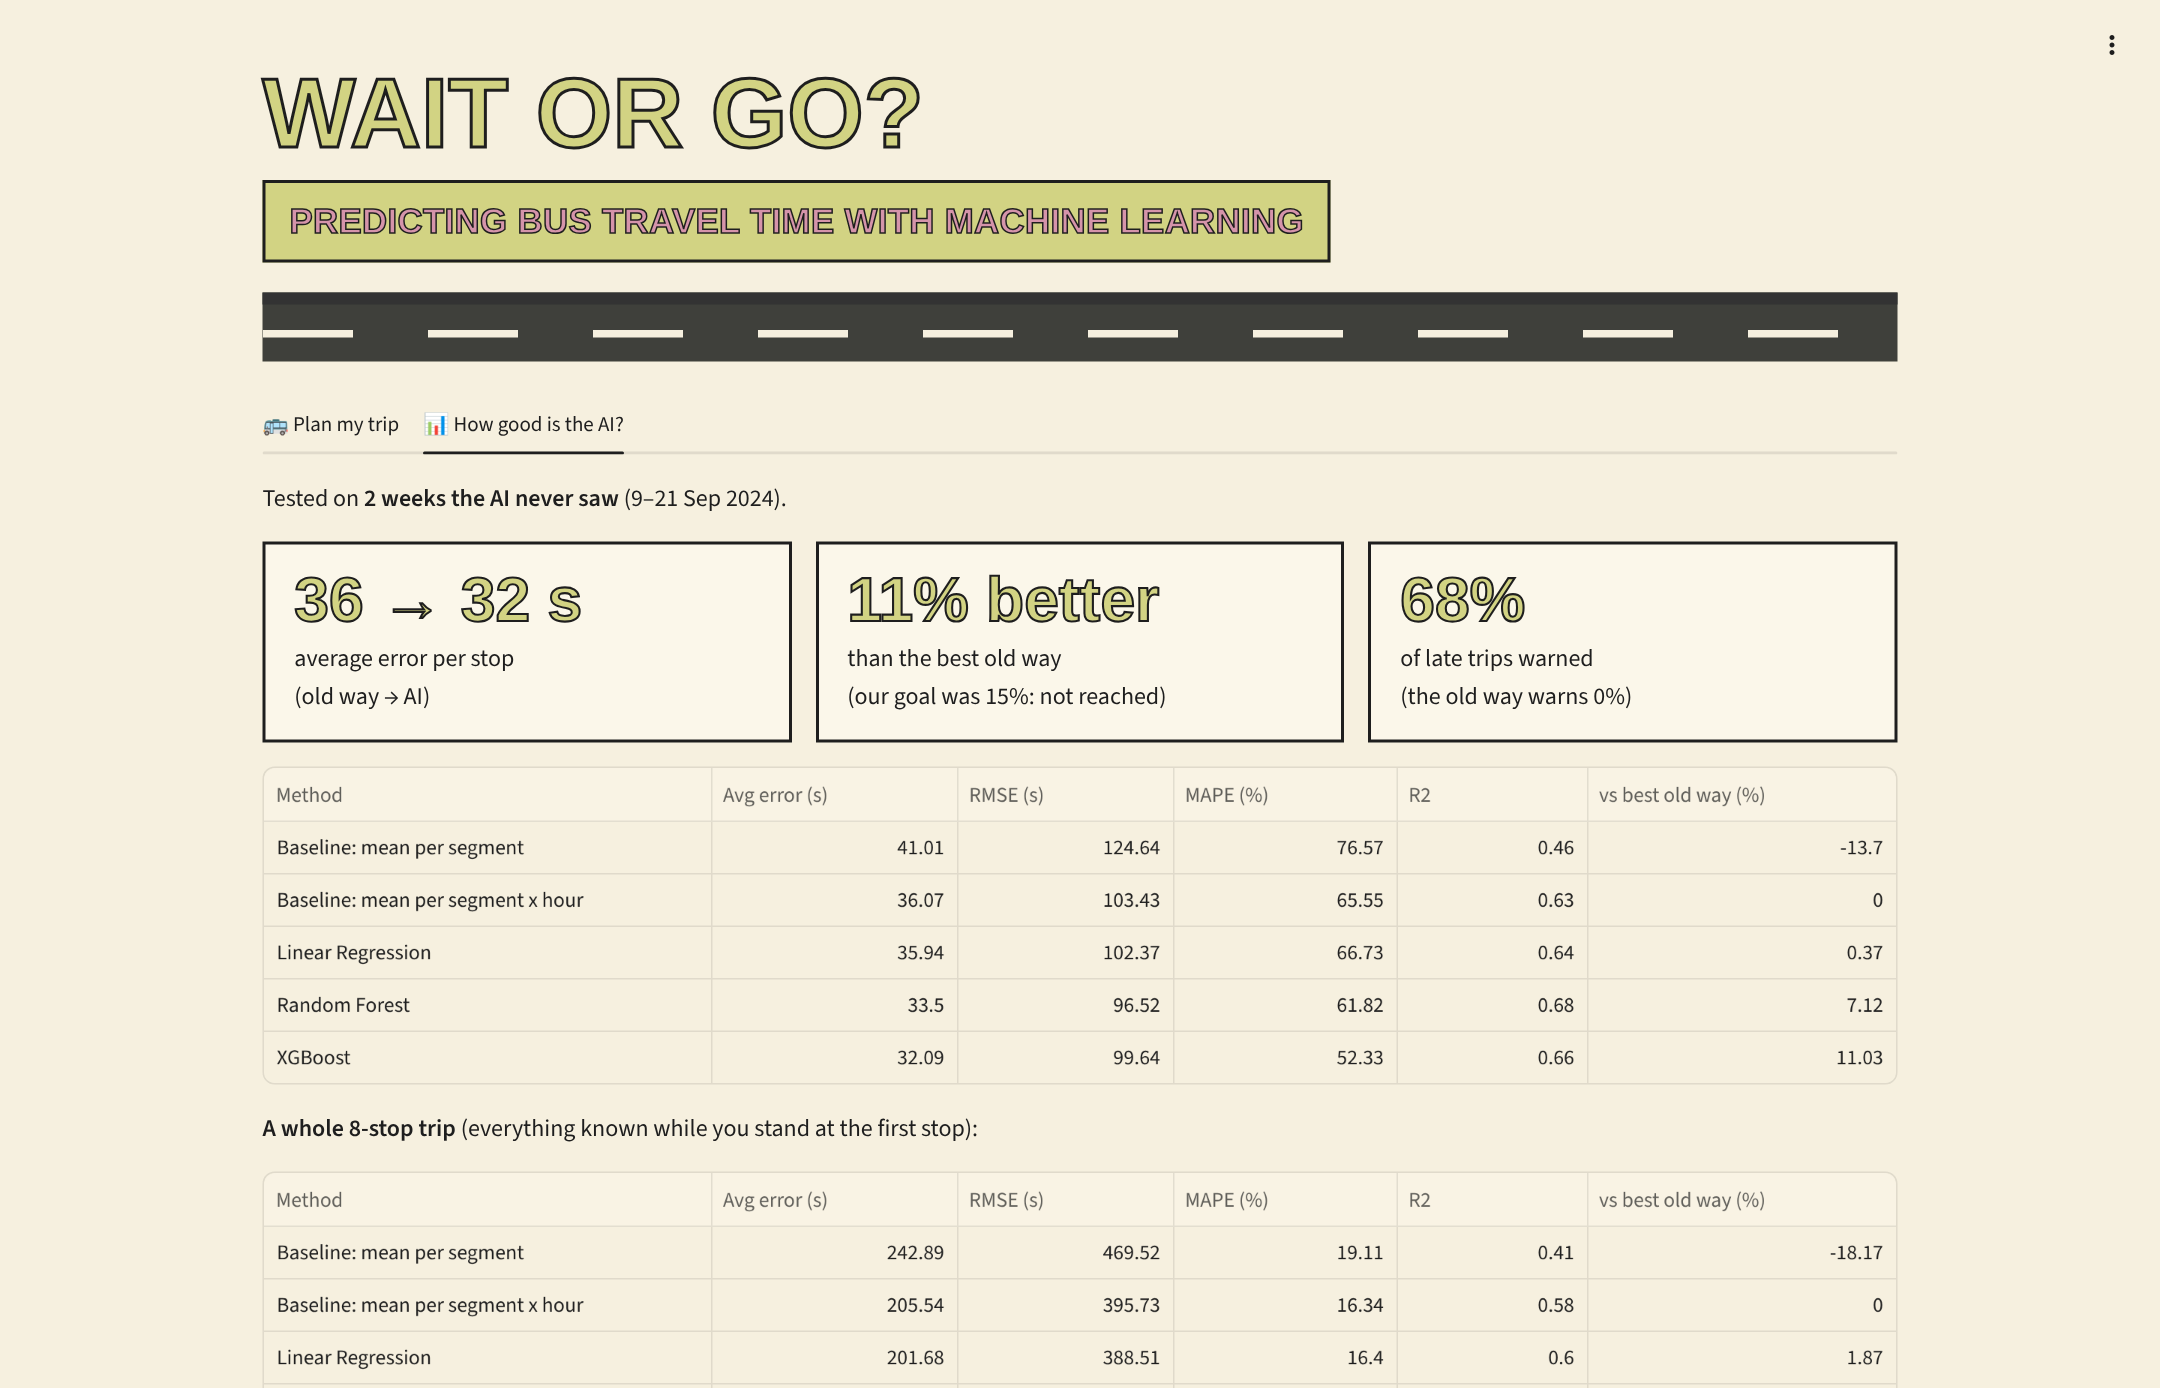
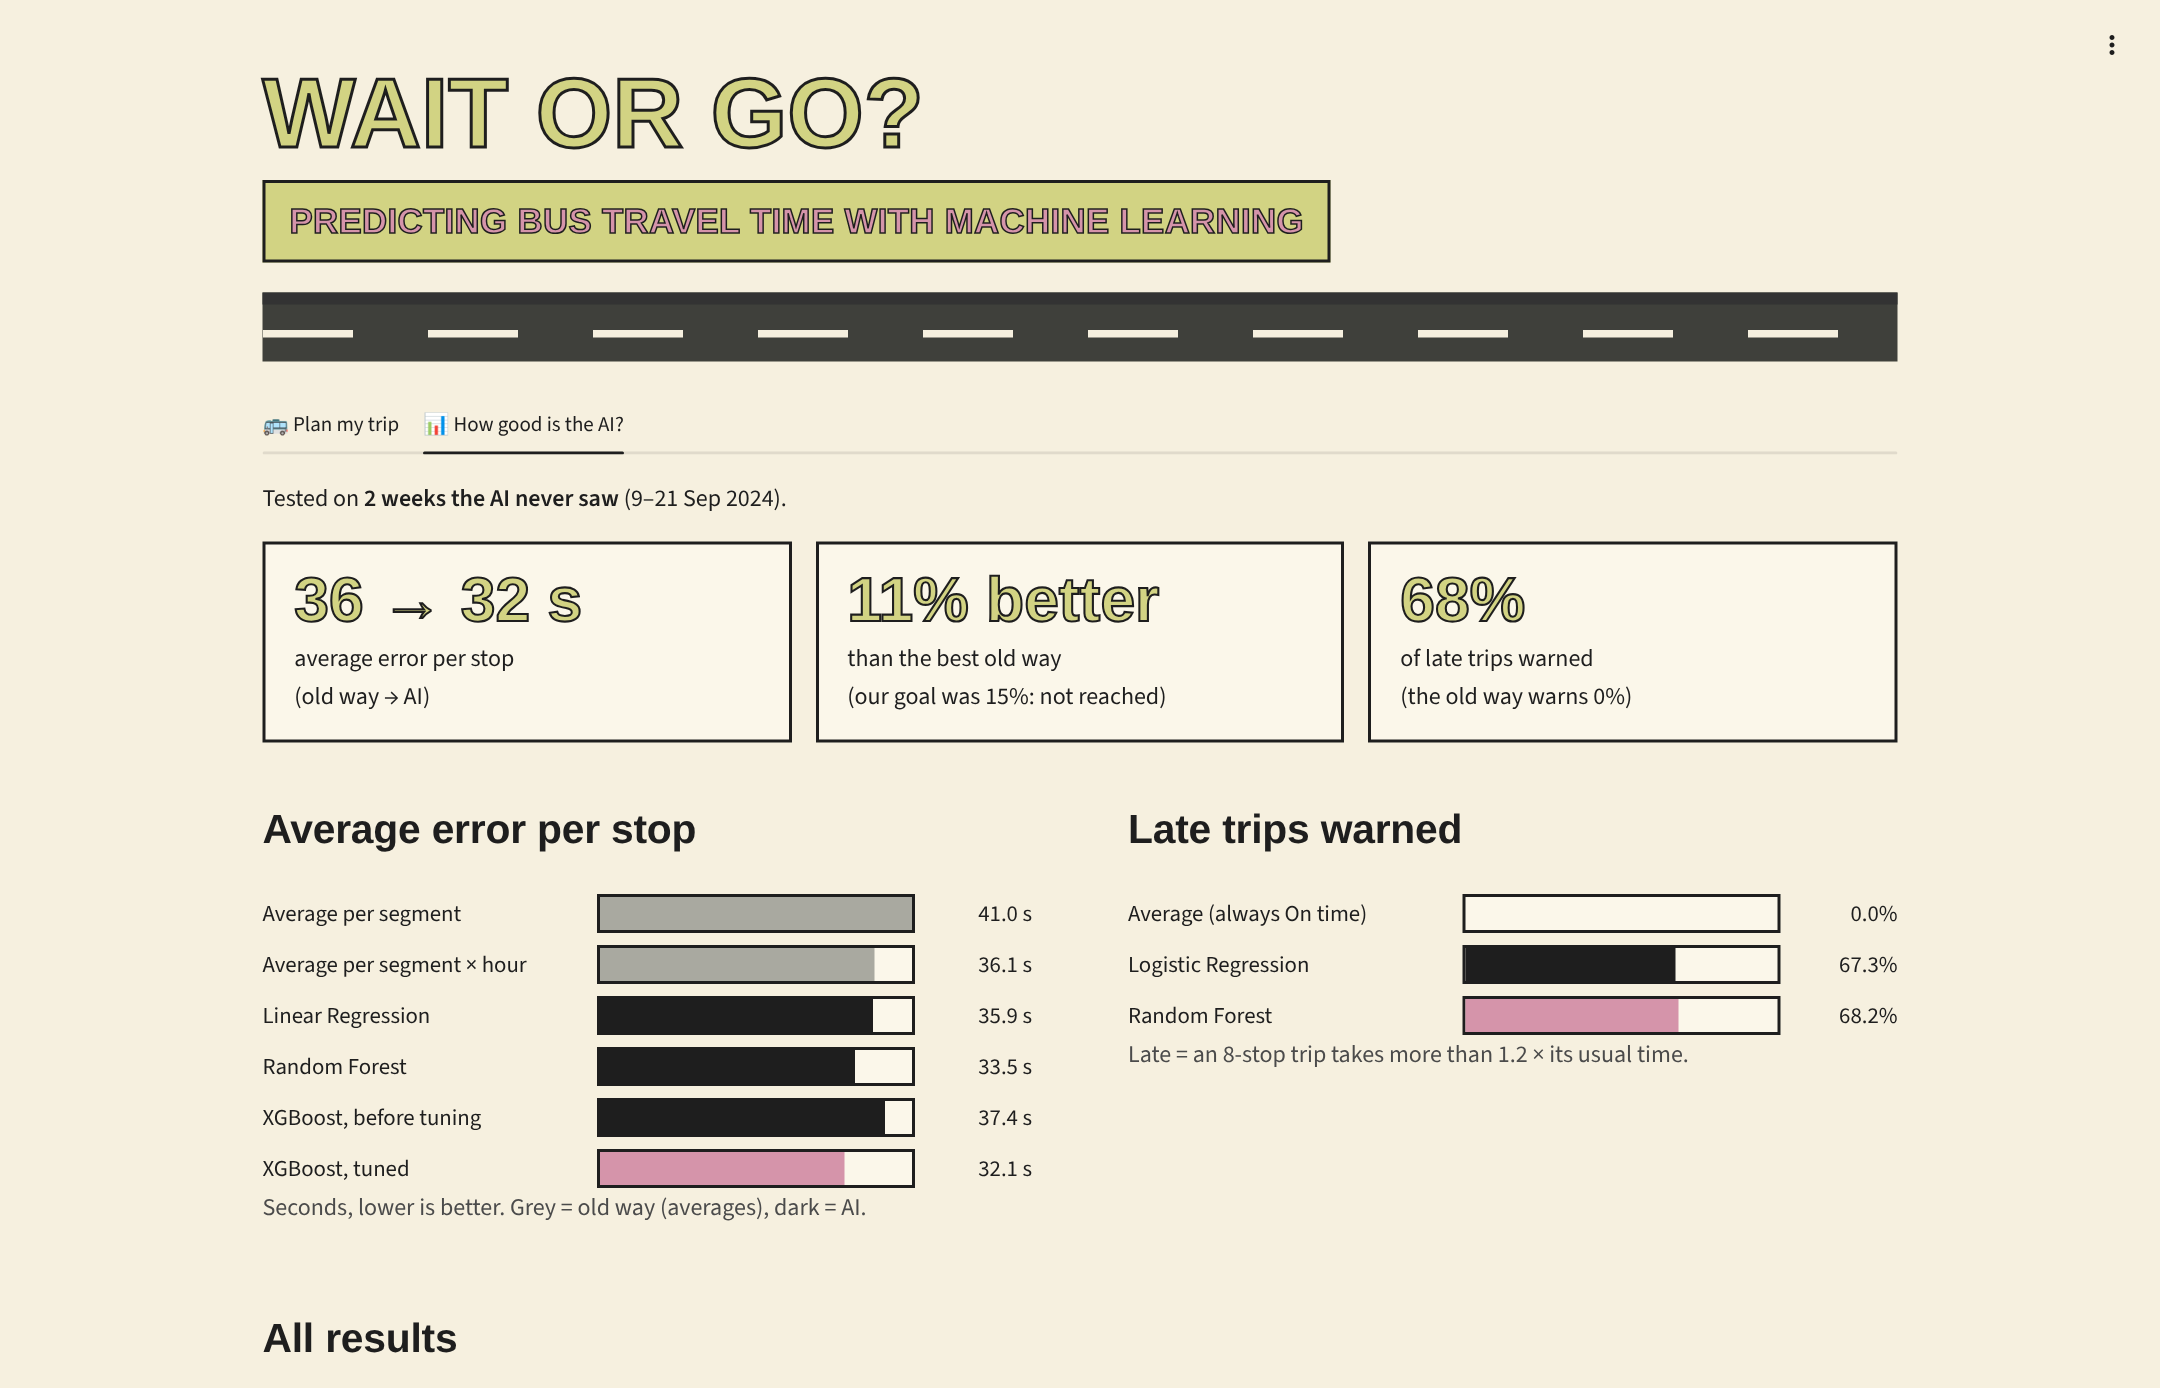
Match the web design

diff --git a/app/app.py b/app/app.py
@@ -32,12 +32,12 @@ st.markdown("""
         --ink:#1E1E1E; --road:#3F403B; --green:#4A6B4B; --sky:#BFD0D6; }
 html, body, .stApp, [class*="css"] { font-family:'Jost','Futura','Avenir Next','Helvetica Neue',Arial,sans-serif; color:var(--ink); }
 .stApp { background:var(--cream); }
-.block-container { padding-top:1.6rem; max-width:1250px; }
+.block-container { padding:1.75rem max(4vw,16px) 3rem !important; max-width:1240px !important; }
 header[data-testid="stHeader"] { background:transparent; }
 h1,h2,h3 { font-family:'League Spartan','Futura','Avenir Next','Arial Black',sans-serif,'Futura','Avenir Next','Arial Black',sans-serif !important; color:var(--ink); }
 
 .kick { font-family:'Jost','Futura','Avenir Next',sans-serif; font-size:.95rem; letter-spacing:.12em; text-transform:uppercase; margin:0; }
-.hero { font-family:'League Spartan','Futura','Avenir Next','Arial Black',sans-serif; font-weight:900; font-size:4.1rem; line-height:.95;
+.hero { font-family:'League Spartan','Futura','Avenir Next','Arial Black',sans-serif; font-weight:900; font-size:clamp(48px,8vw,92px); line-height:.95;
         color:var(--olive); -webkit-text-stroke:2px var(--ink); text-transform:uppercase; margin:.2rem 0 .8rem; }
 .band { background:var(--olive); border:2px solid var(--ink); padding:.45rem 1rem; display:inline-block; }
 .band span { font-family:'League Spartan','Futura','Avenir Next','Arial Black',sans-serif; font-weight:900; font-size:1.45rem; color:var(--pink);
@@ -47,7 +47,9 @@ h1,h2,h3 { font-family:'League Spartan','Futura','Avenir Next','Arial Black',san
                background:repeating-linear-gradient(90deg, var(--cream) 0 60px, transparent 60px 110px); }
 
 .card { background:var(--mustard); border:2px solid var(--ink); padding:1.1rem 1.3rem 1.2rem; }
-.card h3 { font-family:'League Spartan','Futura','Avenir Next','Arial Black',sans-serif; font-weight:800; font-size:1.35rem; margin:0 0 .2rem; }
+.card h3 { font-family:'League Spartan','Futura','Avenir Next','Arial Black',sans-serif; font-weight:800; font-size:1.35rem; margin:0 0 .25rem !important; padding:0 !important; line-height:1.1; }
+.card p { margin:0 !important; }
+.card { padding:1rem 1.25rem !important; }
 .step { font-family:'League Spartan','Futura','Avenir Next','Arial Black',sans-serif; font-weight:800; font-size:1.05rem; text-transform:uppercase;
         letter-spacing:.04em; margin:.9rem 0 .1rem; }
 .hint { font-size:.92rem; color:#4b4b4b; margin:0 0 .2rem; }
@@ -82,6 +84,35 @@ button[kind="segmented_control"], button[kind="segmented_controlActive"], [data-
 [data-testid="stBaseButton-segmented_controlActive"] { background:var(--ink) !important; color:var(--paper) !important; }
 .stTabs [data-baseweb="tab"] { font-family:'League Spartan','Futura','Avenir Next','Arial Black',sans-serif; font-weight:800; font-size:1.1rem; text-transform:uppercase; }
 details { border:2px solid var(--ink) !important; border-radius:0 !important; background:var(--paper); }
+h2.sec { font-family:'League Spartan','Futura','Avenir Next','Arial Black',sans-serif; font-weight:800; font-size:1.7rem; margin:1.6rem 0 .7rem; }
+.bars { display:grid; gap:8px; }
+.bar { display:grid; grid-template-columns:minmax(0,14em) minmax(0,1fr) 4.5em; gap:10px; align-items:center; font-size:.95rem; }
+.bar .tr { height:26px; background:var(--paper); border:2px solid var(--ink); }
+.bar .fill { height:100%; background:var(--ink); }
+.bar .fill.base { background:#A9A9A0; } .bar .fill.hot { background:var(--pink); }
+.bar .v { text-align:right; font-variant-numeric:tabular-nums; white-space:nowrap; }
+.scroll { overflow-x:auto; }
+table.res { border-collapse:collapse; width:100%; font-size:.95rem; background:var(--paper); }
+table.res th, table.res td { border:2px solid var(--ink); padding:7px 10px; text-align:left; }
+table.res th { background:var(--olive); font-weight:600; }
+table.res .n { text-align:right; font-variant-numeric:tabular-nums; white-space:nowrap; }
+table.res tr.hl td { background:#F3DDB0; font-weight:600; }
+/* match the web version: Jost for all text, icons keep their own font */
+.stApp, .stApp p, .stApp li, .stApp label, .stApp span, .stApp div, .stApp td, .stApp th,
+.stApp input, .stApp button, .stApp summary { font-family:'Jost','Futura','Avenir Next','Helvetica Neue',Arial,sans-serif; }
+.stApp [data-testid="stIconMaterial"], .stApp .material-symbols-rounded, .stApp [class*="material-symbols"] {
+  font-family:'Material Symbols Rounded' !important; }
+.stApp .hero, .stApp .band span, .stApp .big, .stApp .do, .stApp .step, .stApp .card h3, .stApp .tl .t,
+.stApp .stat .n, .stApp h2.sec { font-family:'League Spartan','Futura','Avenir Next','Arial Black',sans-serif; }
+.stTabs [data-baseweb="tab-list"] { gap:0; border-bottom:2px solid var(--ink); align-items:flex-end; margin-bottom:8px; }
+.stTabs [data-baseweb="tab-highlight"], .stTabs [data-baseweb="tab-border"] { display:none; }
+.stTabs [data-baseweb="tab"] { padding:14px 18px 12px; height:auto; min-height:44px; background:transparent; border:0;
+  margin:0; line-height:1; }
+.stTabs [data-baseweb="tab"] p { font-family:'League Spartan','Futura','Avenir Next',sans-serif !important; font-weight:800;
+  font-size:17px; line-height:1; margin:0; text-transform:uppercase; color:#4f4f4f; }
+.stTabs [data-baseweb="tab"][aria-selected="true"] { background:var(--olive); border:2px solid var(--ink); border-bottom:0;
+  margin-bottom:-2px; }
+.stTabs [data-baseweb="tab"][aria-selected="true"] p { color:var(--ink); }
 </style>
 """, unsafe_allow_html=True)
 
@@ -140,7 +171,7 @@ st.markdown("""
 <div class="road"></div>
 """, unsafe_allow_html=True)
 
-tab1, tab2 = st.tabs(["🚌  Plan my trip", "📊  How good is the AI?"])
+tab1, tab2 = st.tabs(["Plan my trip", "How good is the AI?"])
 
 with tab1:
     left, right = st.columns([1, 1.25], gap="large")
@@ -152,12 +183,10 @@ with tab1:
 
         st.markdown('<p class="step">1 · Which bus?</p>', unsafe_allow_html=True)
         c1, c2 = st.columns(2)
-        route = c1.selectbox("Bus line", ["A", "B", "C"], format_func=lambda r: f"Line {r}",
-                             help="One of the 3 real bus lines in the data. See 'What are lines A, B, C?' below.")
+        route = c1.selectbox("Bus line", ["A", "B", "C"], format_func=lambda r: f"Line {r}")
         nst = lambda r, dd: len(lk["sequences"][(r, dd)]) + 1
         direction = c2.selectbox("Which way?", [1, 2],
-                                 format_func=lambda dd: f"{'Way 1  →' if dd == 1 else 'Way 2  ←'}  ({nst(route, dd)} stops)",
-                                 help="Each line runs both ways. Way 1 and Way 2 are the two directions in the data.")
+                                 format_func=lambda dd: f"{'Way 1  →' if dd == 1 else 'Way 2  ←'}  ({nst(route, dd)} stops)")
         seq = lk["sequences"][(route, direction)]
         n_stops = len(seq) + 1
         with st.expander("What are lines A, B, C?"):
@@ -184,8 +213,7 @@ with tab1:
         st.markdown('<p class="step">3 · When?</p>', unsafe_allow_html=True)
         c1, c2 = st.columns(2)
         t_arr = c1.time_input("I reach the bus stop at", time(7, 30), step=300)
-        deadline = c2.time_input("I must arrive by", time(8, 10), step=300,
-                                 help="Class, work, a meeting, a flight… any time you must be there.")
+        deadline = c2.time_input("I must arrive by", time(8, 10), step=300)
         dow = st.segmented_control("Day", list(range(7)), default=0,
                                    format_func=lambda i: DAYS[i], key="day")
         dow = 0 if dow is None else dow
@@ -259,13 +287,40 @@ with tab1:
                     unsafe_allow_html=True)
 
 # ---------------------------------------------------------------- tab 2
+NICE = {"Baseline: mean per segment": "Average per segment",
+        "Baseline: mean per segment x hour": "Average per segment × hour"}
+
+
+def bars(rows, unit, vmax, dec=1):
+    """rows: (label, value, kind) with kind in {'base', 'ai', 'hot'} -> HTML bar rows."""
+    out = []
+    for label, v, kind in rows:
+        out.append(f'<div class="bar"><span>{label}</span><div class="tr"><div class="fill {kind}" '
+                   f'style="width:{v / vmax * 100:.1f}%"></div></div><span class="v">{v:.{dec}f}{unit}</span></div>')
+    return '<div class="bars">' + "".join(out) + "</div>"
+
+
+def html_table(head, rows, hl=None):
+    th = "".join(f'<th class="{"n" if i else ""}">{h}</th>' for i, h in enumerate(head))
+    body = "".join(
+        f'<tr class="{"hl" if r[0] == hl else ""}">' +
+        "".join(f'<td class="{"n" if i else ""}">{c}</td>' for i, c in enumerate(r)) + "</tr>" for r in rows)
+    return f'<div class="scroll"><table class="res"><tr>{th}</tr>{body}</table></div>'
+
+
 with tab2:
     rep = ROOT / "reports"
     res = pd.read_csv(rep / "results_final_table.csv")
-    clf = pd.read_csv(rep / "results_classification.csv")
+    reg = pd.read_csv(rep / "results_regression.csv")
+    late = pd.read_csv(rep / "late_trips_caught.csv")
+    jr = pd.read_csv(rep / "results_journey_8stops.csv")
+    fi = pd.read_csv(rep / "feature_importance_top12.csv").head(8)
+    xgb_before = reg[(reg.model == "XGBoost") & reg.tuned.str.startswith("before")].MAE_s.iloc[0]
     base_mae = res[res.type == "baseline"].MAE_s.min()
     best = res[res.type == "ML"].sort_values("MAE_s").iloc[0]
-    late = clf[clf.model.str.startswith("Random Forest")].recall_late.iloc[0]
+    rf_late = late[late.method == "Random Forest"].caught_pct.iloc[0]
+    sign = lambda v: f"{v:+.1f}%" if abs(v) >= 0.05 else "0.0%"
+
     st.markdown("Tested on **2 weeks the AI never saw** (9–21 Sep 2024).")
     a, b, c = st.columns(3)
     a.markdown(f'<div class="stat"><div class="n">{base_mae:.0f} → {best.MAE_s:.0f} s</div>'
@@ -273,20 +328,40 @@ with tab2:
     b.markdown(f'<div class="stat"><div class="n">{best["MAE_improvement_vs_best_baseline_%"]:.0f}% better</div>'
                f'<div class="s">than the best old way<br>(our goal was 15%: not reached)</div></div>',
                unsafe_allow_html=True)
-    c.markdown(f'<div class="stat"><div class="n">{late * 100:.0f}%</div>'
+    c.markdown(f'<div class="stat"><div class="n">{rf_late:.0f}%</div>'
                f'<div class="s">of late trips warned<br>(the old way warns 0%)</div></div>', unsafe_allow_html=True)
-    st.write("")
-    nice = res[["model", "MAE_s", "RMSE_s", "MAPE_%", "R2", "MAE_improvement_vs_best_baseline_%"]].rename(columns={
-        "model": "Method", "MAE_s": "Avg error (s)", "RMSE_s": "RMSE (s)", "MAPE_%": "MAPE (%)",
-        "MAE_improvement_vs_best_baseline_%": "vs best old way (%)"})
-    st.dataframe(nice.round(2), hide_index=True, width="stretch")
-    j = rep / "results_journey_8stops.csv"
-    if j.exists():
-        st.markdown("**A whole 8-stop trip** (everything known while you stand at the first stop):")
-        jt = pd.read_csv(j).drop(columns=["n_journeys"], errors="ignore").rename(columns={
-            "model": "Method", "MAE_s": "Avg error (s)", "RMSE_s": "RMSE (s)", "MAPE_%": "MAPE (%)",
-            "MAE_improvement_vs_best_baseline_%": "vs best old way (%)"})
-        st.dataframe(jt.round(2), hide_index=True, width="stretch")
-    x, y = st.columns(2)
-    x.image(str(rep / "mae_model_vs_baseline.png"), width="stretch")
-    y.image(str(rep / "feature_importance.png"), width="stretch")
+
+    left, right = st.columns(2, gap="large")
+    mrows = [(NICE.get(m, m), v, "base" if t == "baseline" else "ai") for m, v, t in zip(res.model, res.MAE_s, res.type)]
+    mrows.insert(len(mrows) - 1, ("XGBoost, before tuning", xgb_before, "ai"))
+    mrows[-1] = ("XGBoost, tuned", mrows[-1][1], "hot")
+    left.markdown('<h2 class="sec">Average error per stop</h2>' +
+                  bars(mrows, " s", max(v for _, v, _ in mrows)) +
+                  '<p class="note">Seconds, lower is better. Grey = old way (averages), dark = AI.</p>',
+                  unsafe_allow_html=True)
+    lrows = [(m, v, "base" if i == 0 else ("hot" if m == "Random Forest" else "ai"))
+             for i, (m, v) in enumerate(zip(late.method, late.caught_pct))]
+    right.markdown('<h2 class="sec">Late trips warned</h2>' + bars(lrows, "%", 100, dec=0) +
+                   '<p class="note">Late = an 8-stop trip takes more than 1.2 × its usual time.</p>',
+                   unsafe_allow_html=True)
+
+    st.markdown('<h2 class="sec">All results</h2>' + html_table(
+        ["Method", "Avg error (s)", "RMSE (s)", "MAPE (%)", "R²", "vs best old way"],
+        [[NICE.get(m, m + (" (tuned)" if m in ("Random Forest", "XGBoost") else "")), f"{mae:.2f}", f"{rm:.1f}",
+          f"{mp:.1f}", f"{r2:.2f}", sign(imp)]
+         for m, mae, rm, mp, r2, imp in zip(res.model, res.MAE_s, res.RMSE_s, res["MAPE_%"], res.R2,
+                                             res["MAE_improvement_vs_best_baseline_%"])],
+        hl="XGBoost (tuned)"), unsafe_allow_html=True)
+
+    jr = jr[~jr.model.str.contains("round 1")]
+    st.markdown('<h2 class="sec">A whole 8-stop trip</h2>'
+                '<p class="note" style="margin:0 0 10px">Everything known while you stand at the first stop.</p>' +
+                html_table(["Method", "Avg error (s)", "vs best old way"],
+                           [[NICE.get(m, m), f"{v:.1f}", sign(i)]
+                            for m, v, i in zip(jr.model, jr.MAE_s, jr["MAE_improvement_vs_best_baseline_%"])],
+                           hl="Random Forest"), unsafe_allow_html=True)
+
+    frows = [(l, v, "hot" if i == 0 else "ai") for i, (l, v) in enumerate(zip(fi.label, fi.importance_pct))]
+    st.markdown('<h2 class="sec">What drives the prediction?</h2>' + bars(frows, "%", frows[0][1]) +
+                '<p class="note">Share of XGBoost\'s importance. The hourly average already explains most of the '
+                'time, so AI adds 11% on top.</p>', unsafe_allow_html=True)
